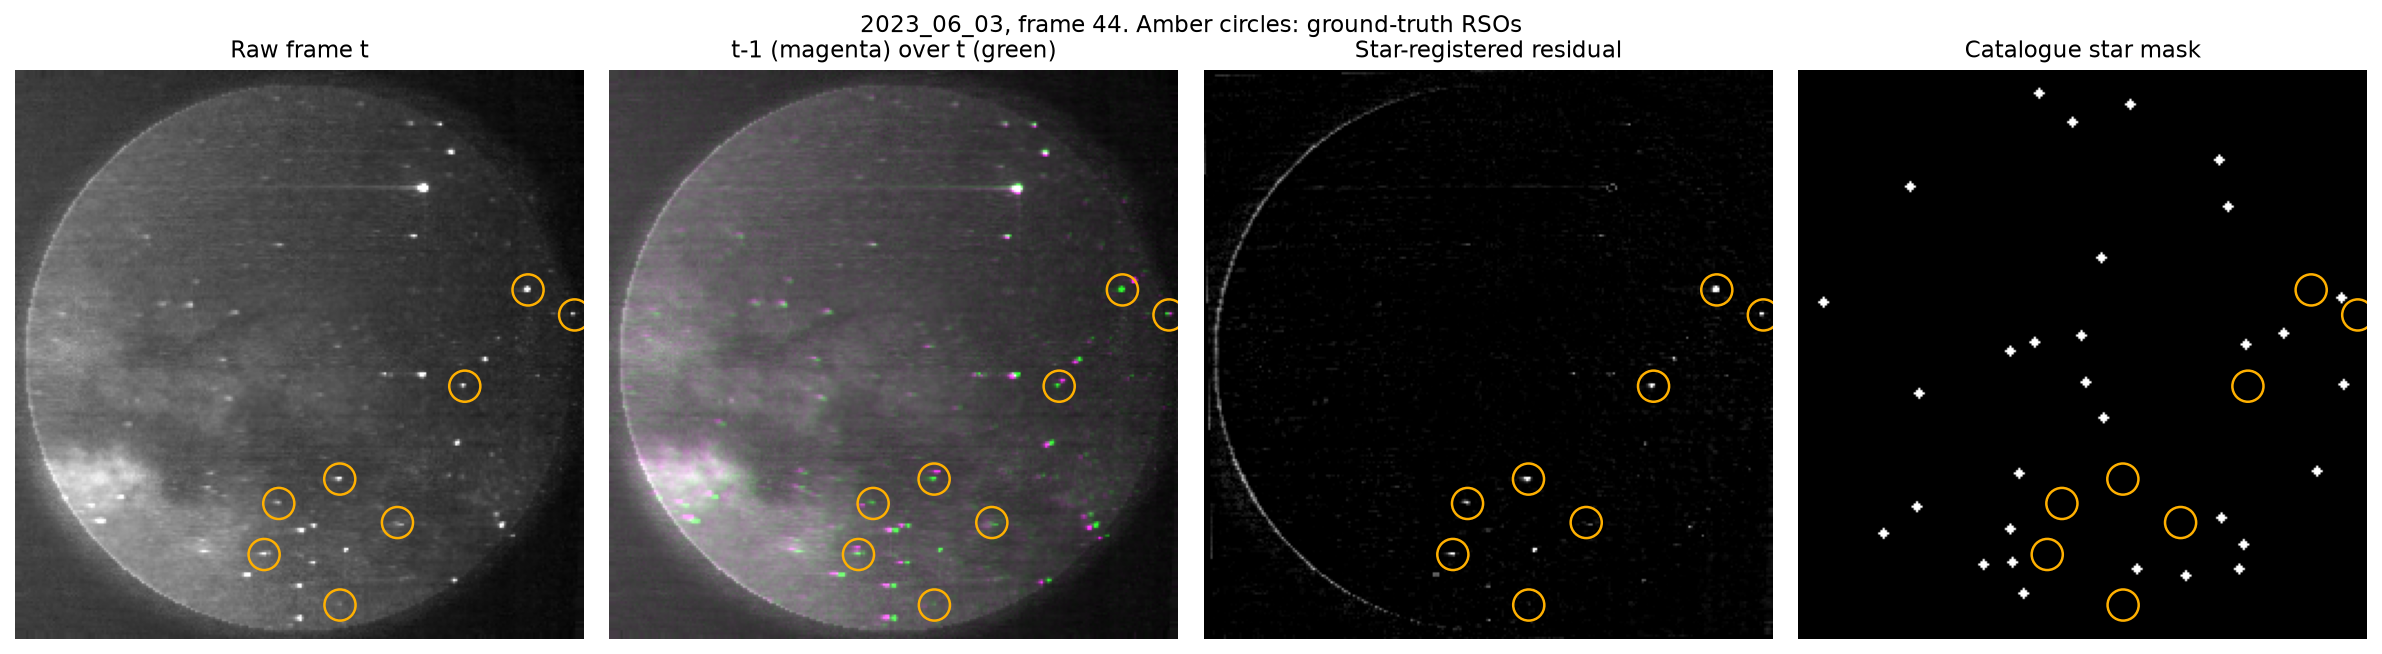
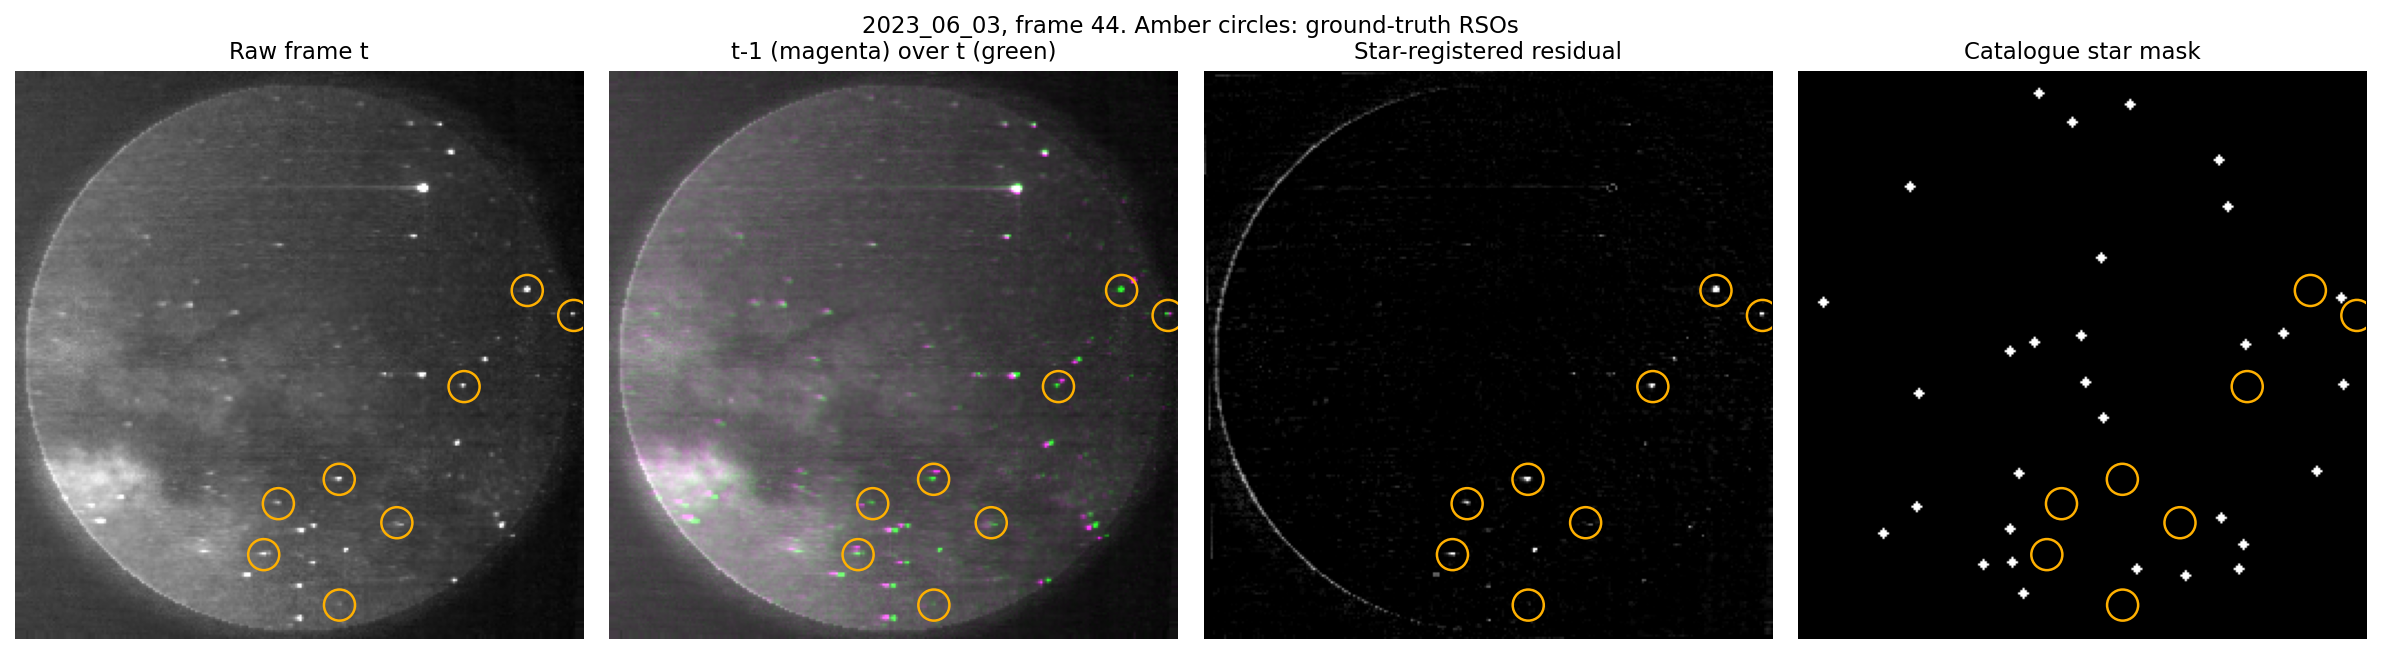
Project A after compilation

diff --git a/a_dust/train.py b/a_dust/train.py
@@ -1,0 +1,44 @@
+"""Train one YOLO11n detector on one channel variant.
+
+Usage: python a_dust/train.py --data /content/data/dust_yolo --variant V3 --seed 0 --project runs/a
+Skips if the run already finished, resumes from last.pt if it was interrupted.
+"""
+import argparse
+from pathlib import Path
+
+from ultralytics import YOLO
+
+
+def main():
+    ap = argparse.ArgumentParser()
+    ap.add_argument("--data", type=Path, required=True)
+    ap.add_argument("--variant", choices=["V0", "V1", "V2", "V3"], required=True)
+    ap.add_argument("--seed", type=int, required=True)
+    ap.add_argument("--project", type=Path, required=True)
+    ap.add_argument("--epochs", type=int, default=80)
+    args = ap.parse_args()
+
+    run = args.project / f"{args.variant}_s{args.seed}"
+    done = run / "DONE"
+    if done.exists():
+        print("already trained:", run)
+        return
+    last = run / "weights" / "last.pt"
+    if last.exists():
+        try:
+            YOLO(str(last)).train(resume=True)
+        except AssertionError as e:
+            print("nothing to resume, treating as finished:", e)
+    else:
+        YOLO("yolo11n.pt").train(
+            data=str(args.data / args.variant / "data.yaml"), imgsz=640, epochs=args.epochs, batch=32,
+            seed=args.seed, deterministic=True, hsv_h=0, hsv_s=0, hsv_v=0, mosaic=0.5, degrees=0,
+            fliplr=0.5, flipud=0.5, patience=20, cache="ram",
+            # Channels are not colours: no ToGray, CLAHE or blur from the default albumentations set.
+            augmentations=[],
+            project=str(args.project), name=run.name, exist_ok=True)
+    done.write_text("ok\n")
+
+
+if __name__ == "__main__":
+    main()
